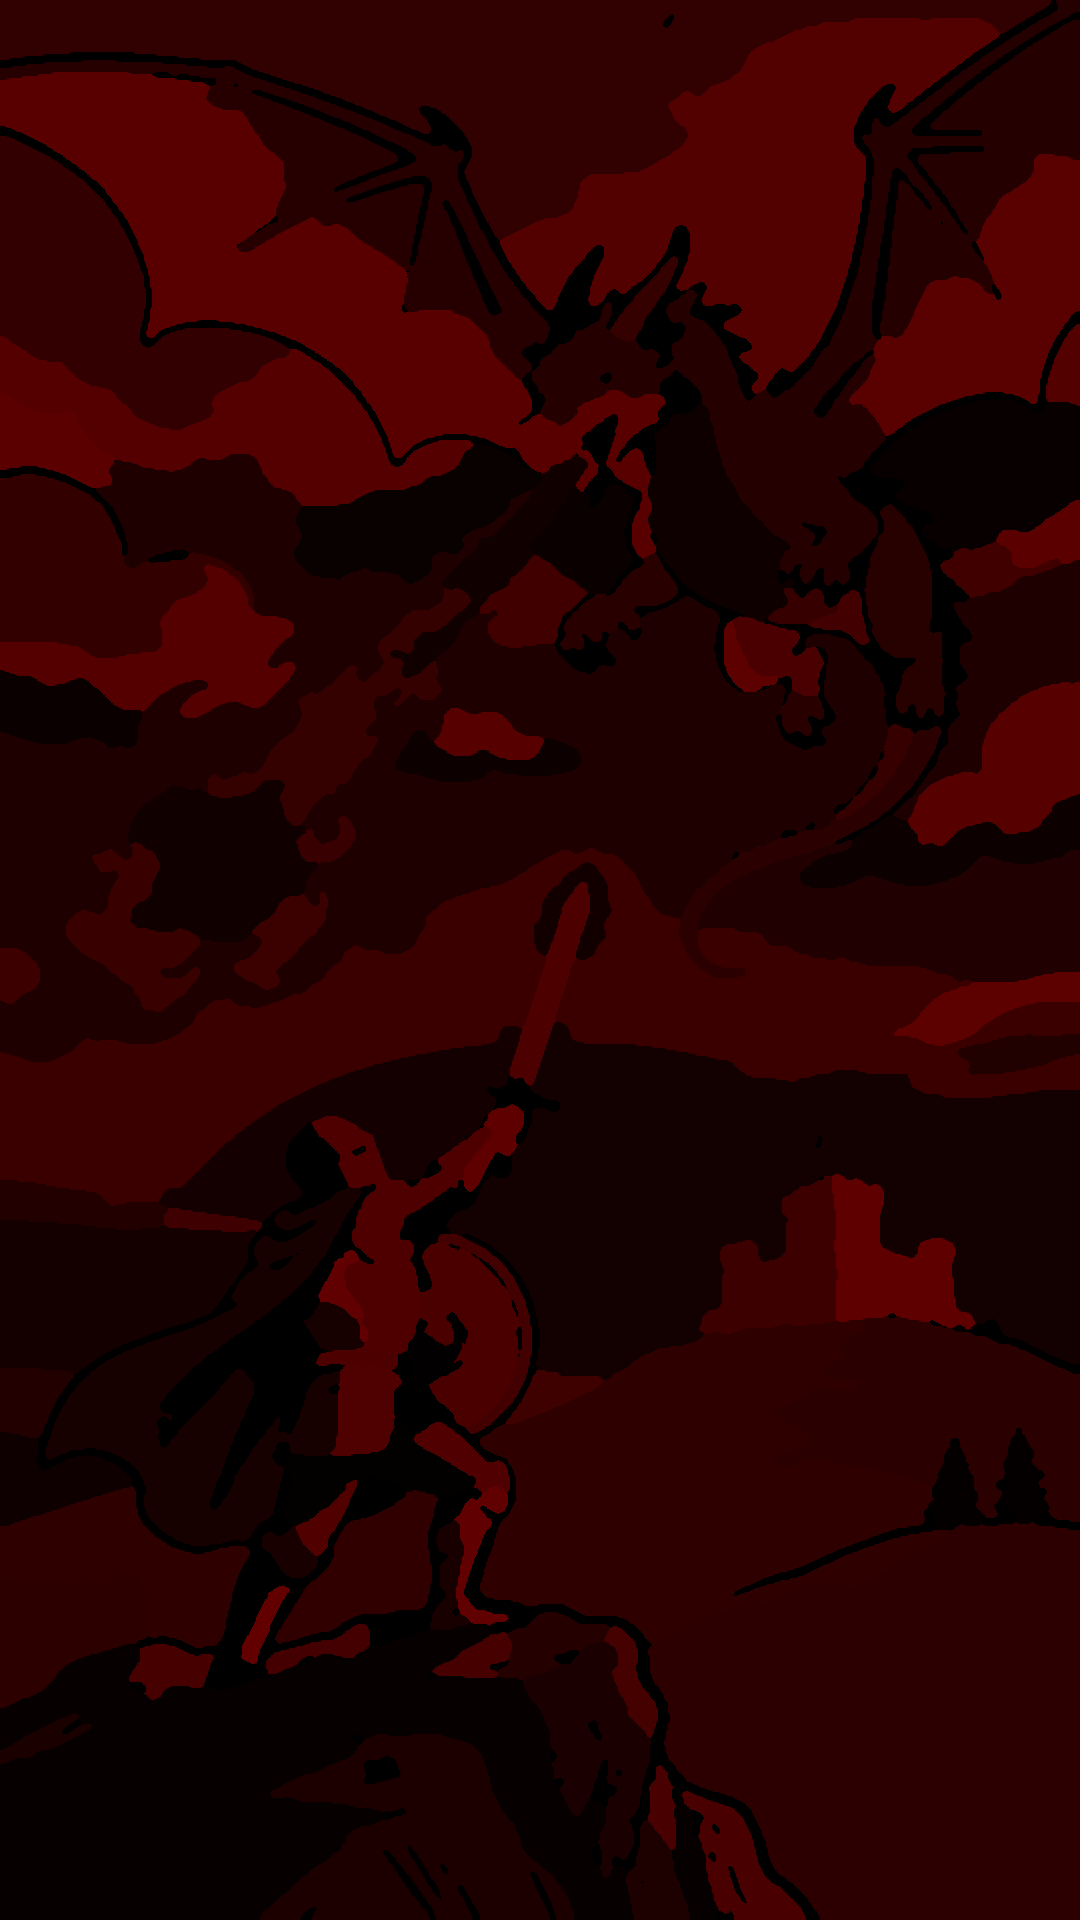
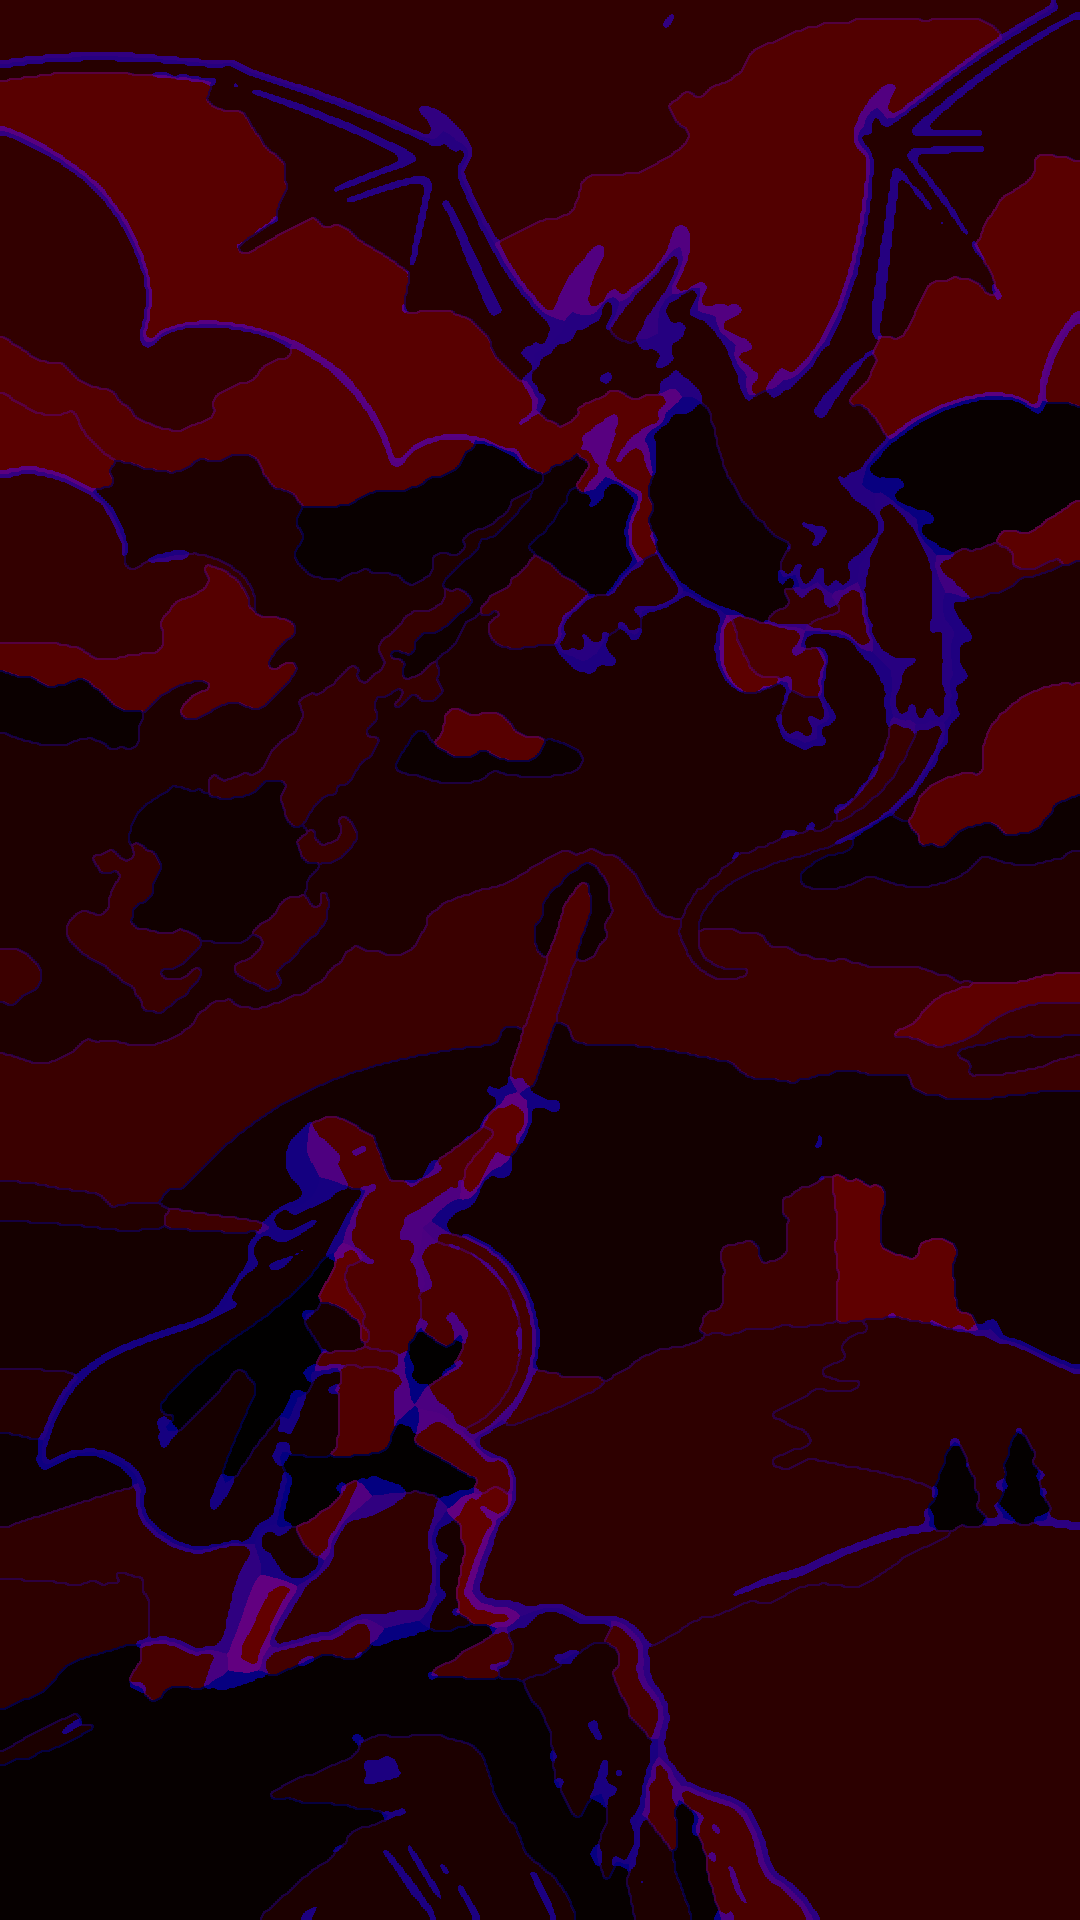
Quest 24: Malbild: Linien und Kanten werden mitgefärbt
Claude-Session: https://claude.ai/code/session_013ksHH1RN3knNHjnsFznGtM

diff --git a/malen.js b/malen.js
@@ -13,21 +13,20 @@ GAMES.malen=(s)=>new Promise(async done=>{hideBox();
  const orig=px(imB),lin=px(imL),fe=px(imF);
  // Feldnummer je Pixel und Pixellisten je Feld
  const reg=new Uint16Array(W*H),cnt=new Uint32Array(N+2);
- for(let i=0,p=0;i<W*H;i++,p+=4){const r=fe[p]+(fe[p+1]<<8);reg[i]=r;cnt[r]++}
+ const flg=new Uint8Array(W*H);for(let i=0,p=0;i<W*H;i++,p+=4){const r=fe[p]+(fe[p+1]<<8);reg[i]=r;cnt[r]++;flg[i]=(fe[p+2]>96?1:0)|(fe[p+2]>32&&fe[p+2]<96?2:0)}
  const off=new Uint32Array(N+2);for(let r=1;r<=N+1;r++)off[r]=off[r-1]+cnt[r-1];
  const pos=off.slice(),list=new Uint32Array(W*H);for(let i=0;i<W*H;i++)list[pos[reg[i]]++]=i;
  const bb=D.r.map(()=>[W,H,0,0]);for(let r=1;r<=N;r++){const b=bb[r-1];for(let k=off[r];k<off[r+1];k++){const i=list[k],x=i%W,y=(i/W)|0;if(x<b[0])b[0]=x;if(y<b[1])b[1]=y;if(x>b[2])b[2]=x;if(y>b[3])b[3]=y}}
  // Arbeitsbild
  const work=document.createElement('canvas');work.width=W;work.height=H;const wg=work.getContext('2d');const wd=wg.createImageData(W,H),w=wd.data;
- for(let i=0,p=0;i<W*H;i++,p+=4){if(reg[i]===0){w[p]=orig[p]*.25+lin[p]*.75;w[p+1]=orig[p+1]*.25+lin[p+1]*.75;w[p+2]=orig[p+2]*.25+lin[p+2]*.75}else{w[p]=lin[p];w[p+1]=lin[p+1];w[p+2]=lin[p+2]}w[p+3]=255}
+ const E0=42,E1=38,E2=36;for(let i=0,p=0;i<W*H;i++,p+=4){if(flg[i]&2){w[p]=E0;w[p+1]=E1;w[p+2]=E2}else{w[p]=lin[p];w[p+1]=lin[p+1];w[p+2]=lin[p+2]}w[p+3]=255}
  wg.putImageData(wd,0,0);
  const filled=new Uint8Array(N+1),left=D.pal.map(()=>0);D.r.forEach(r=>left[r[0]]++);
  let sel=-1,nFill=0;
  const paintReg=(r,mode,cx0,cy0,rad)=>{ // mode 0 leer, 1 markiert, 2 gefüllt
   const b=bb[r-1];for(let k=off[r];k<off[r+1];k++){const i=list[k],p=i*4;
    if(mode===2){if(rad!=null){const x=i%W-cx0,y=(i/W|0)-cy0;if(x*x+y*y>rad*rad)continue}w[p]=orig[p];w[p+1]=orig[p+1];w[p+2]=orig[p+2]}
-   else if(mode===1){const x=i%W,y=(i/W)|0;const h=((x+y)%16)<7;const l=lin[p];if(h){w[p]=l*.52;w[p+1]=l*.52;w[p+2]=l*.56}else{w[p]=l*.86;w[p+1]=l*.86;w[p+2]=l*.88}}
-   else{w[p]=lin[p];w[p+1]=lin[p+1];w[p+2]=lin[p+2]}}
+   else if(flg[i]&2){w[p]=E0;w[p+1]=E1;w[p+2]=E2}else if(flg[i]&1||mode===0){w[p]=lin[p];w[p+1]=lin[p+1];w[p+2]=lin[p+2]}else{const x=i%W,y=(i/W)|0;const h=((x+y)%16)<7;const l=lin[p];if(h){w[p]=l*.52;w[p+1]=l*.52;w[p+2]=l*.56}else{w[p]=l*.86;w[p+1]=l*.86;w[p+2]=l*.88}}}
   wg.putImageData(wd,0,0,b[0],b[1],b[2]-b[0]+1,b[3]-b[1]+1)};
  const mark=(c,on)=>{for(let r=1;r<=N;r++)if(!filled[r]&&D.r[r-1][0]===c)paintReg(r,on?1:0)};
  // Farbtöpfe
@@ -51,7 +50,7 @@ GAMES.malen=(s)=>new Promise(async done=>{hideBox();
  const draw=()=>{if(raf)return;raf=requestAnimationFrame(()=>{raf=0;cx.setTransform(dpr,0,0,dpr,0,0);cx.clearRect(0,0,vw,vh);
   cx.save();cx.shadowColor='rgba(0,0,0,.45)';cx.shadowBlur=18;cx.fillStyle='#fff';cx.fillRect(tx,ty,W*sc,H*sc);cx.restore();
   cx.imageSmoothingEnabled=true;cx.imageSmoothingQuality='high';cx.drawImage(work,tx,ty,W*sc,H*sc);
-  cx.drawImage(imU,tx,ty,W*sc,H*sc);
+  
   cx.textAlign='center';cx.textBaseline='middle';
   cx.lineJoin='round';for(let r=1;r<=N;r++){if(filled[r])continue;const R=D.r[r-1],rr=R[3]*D.s*sc;if(rr<5)continue;const x=tx+R[1]*D.s*sc,y=ty+R[2]*D.s*sc;if(x<-20||y<-20||x>vw+20||y>vh+20)continue;
    const on=R[0]===sel,fs=Math.max(10,Math.min(on?22:19,rr*1.15));cx.font='700 '+fs+'px Georgia,serif';cx.lineWidth=Math.max(3,fs*.28);cx.strokeStyle='rgba(255,255,255,.95)';cx.strokeText(R[0]+1,x,y);cx.fillStyle=on?'#000':'#3d3630';cx.fillText(R[0]+1,x,y)}

diff --git a/index.html b/index.html
@@ -9,7 +9,7 @@
 <meta name="robots" content="noindex">
 <link rel="preconnect" href="https://fonts.googleapis.com"><link rel="preconnect" href="https://fonts.gstatic.com" crossorigin>
 <link href="https://fonts.googleapis.com/css2?family=Grenze+Gotisch:wght@500;700;800&family=Alegreya:ital,wght@0,400;0,500;0,700;1,400&family=Alegreya+SC:wght@500;700&family=Caveat:wght@500;700&display=swap" rel="stylesheet">
-<link rel="stylesheet" href="style.css?v=1794173298">
+<link rel="stylesheet" href="style.css?v=1794174077">
 </head>
 <body>
 
@@ -59,26 +59,26 @@
 <div id="sheet" class="ovl sheet"></div>
 <div id="toast" class="toast"></div>
 
-<script src="gate.js?v=1794173298"></script>
-<script src="engine.js?v=1794173298"></script>
-<script src="scene.js?v=1794173298"></script>
-<script src="dice.js?v=1794173298"></script>
-<script src="items.js?v=1794173298"></script>
-<script src="battle.js?v=1794173298"></script>
-<script src="ui.js?v=1794173298"></script>
-<script src="slyr.js?v=1794173298"></script>
-<script src="games.js?v=1794173298"></script>
-<script src="malen.js?v=1794173298"></script>
-<script src="bossgames.js?v=1794173298"></script>
-<script src="films.js?v=1794173298"></script>
-<script src="days1.js?v=1794173298"></script>
-<script src="days2.js?v=1794173298"></script>
-<script src="days3.js?v=1794173298"></script>
-<script src="days4.js?v=1794173298"></script>
-<script src="hero.js?v=1794173298"></script>
-<script src="qrcode.js?v=1794173298"></script>
-<script src="komplize.js?v=1794173298"></script>
-<script src="urkunde.js?v=1794173298"></script>
-<script src="main.js?v=1794173298"></script>
+<script src="gate.js?v=1794174077"></script>
+<script src="engine.js?v=1794174077"></script>
+<script src="scene.js?v=1794174077"></script>
+<script src="dice.js?v=1794174077"></script>
+<script src="items.js?v=1794174077"></script>
+<script src="battle.js?v=1794174077"></script>
+<script src="ui.js?v=1794174077"></script>
+<script src="slyr.js?v=1794174077"></script>
+<script src="games.js?v=1794174077"></script>
+<script src="malen.js?v=1794174077"></script>
+<script src="bossgames.js?v=1794174077"></script>
+<script src="films.js?v=1794174077"></script>
+<script src="days1.js?v=1794174077"></script>
+<script src="days2.js?v=1794174077"></script>
+<script src="days3.js?v=1794174077"></script>
+<script src="days4.js?v=1794174077"></script>
+<script src="hero.js?v=1794174077"></script>
+<script src="qrcode.js?v=1794174077"></script>
+<script src="komplize.js?v=1794174077"></script>
+<script src="urkunde.js?v=1794174077"></script>
+<script src="main.js?v=1794174077"></script>
 </body>
 </html>
